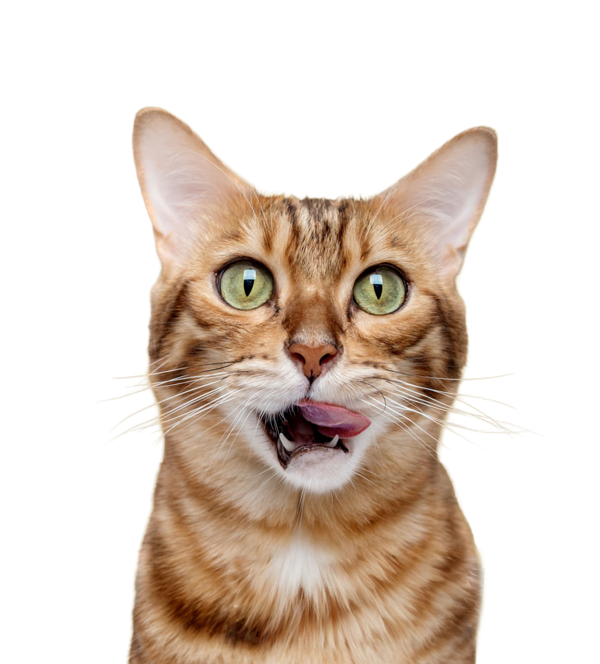
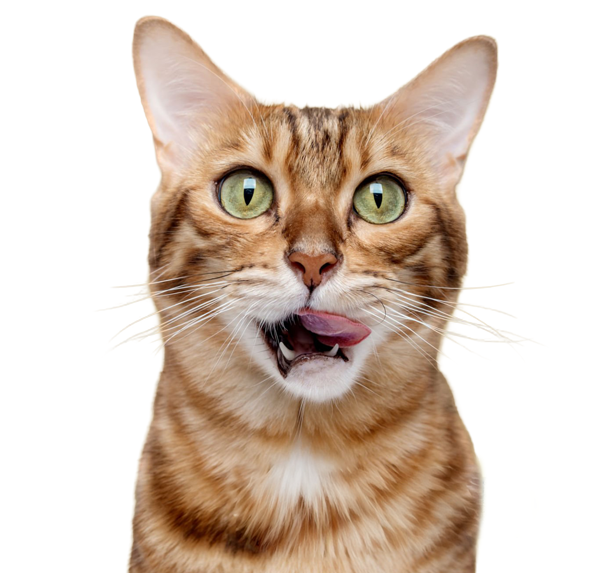
ajustement conditions

diff --git a/src/pages/Inscription.jsx b/src/pages/Inscription.jsx
@@ -1,4 +1,4 @@
-import { useState } from 'react'
+import { useState, useRef } from 'react'
 import { supabase } from '../lib/supabase'
 import { useNavigate, Link } from 'react-router-dom'
 
@@ -19,7 +19,7 @@ const CGU_PAGES = [
     sections: [
       {
         titre: 'Utilisation du service',
-        texte: 'ADJUVET est fourni à titre strictement informatif et éducatif. Il ne constitue pas un avis médical vétérinaire et ne remplace en aucun cas le jugement clinique d\'un médecin vétérinaire. VetLab Studio décline toute responsabilité pour les erreurs, omissions, inexactitudes ou défaillances techniques pouvant affecter les informations présentées dans l\'application. L\'utilisateur reconnaît assumer l\'entière responsabilité de toute décision clinique ou thérapeutique prise à partir des données de l\'application, et exonère expressément VetLab Studio de toute responsabilité en cas de préjudice, incluant toute erreur de traitement médical, résultant de son utilisation.',
+        texte: 'ADJUVET est fourni à titre informatif uniquement et ne remplace pas le jugement clinique d\'un vétérinaire. VetLab Studio décline toute responsabilité pour les décisions thérapeutiques prises à partir de l\'application.',
       },
     ],
   },
@@ -56,6 +56,7 @@ export default function Inscription() {
   const [etapeCgu, setEtapeCgu] = useState(null)
   const [voirMdp, setVoirMdp] = useState(false)
   const [voirConfirm, setVoirConfirm] = useState(false)
+  const touchStartX = useRef(null)
   const navigate = useNavigate()
 
   const handleInscription = (e) => {
@@ -68,12 +69,22 @@ export default function Inscription() {
     setEtapeCgu(0)
   }
 
-  const handleValider = async () => {
-    if (etapeCgu < CGU_PAGES.length - 1) {
-      setEtapeCgu(e => e + 1)
-      return
-    }
+  const handleSwipeStart = (e) => {
+    touchStartX.current = e.touches[0].clientX
+  }
 
+  const handleSwipeEnd = (e) => {
+    if (touchStartX.current === null) return
+    const delta = e.changedTouches[0].clientX - touchStartX.current
+    touchStartX.current = null
+    if (delta < -50 && etapeCgu < CGU_PAGES.length - 1) {
+      setEtapeCgu(e => e + 1)
+    } else if (delta > 50 && etapeCgu > 0) {
+      setEtapeCgu(e => e - 1)
+    }
+  }
+
+  const handleAccepter = async () => {
     setChargement(true)
     const { error } = await supabase.auth.signUp({
       email,
@@ -89,6 +100,7 @@ export default function Inscription() {
     }
     setChargement(false)
   }
+
 
   if (succes) {
     return (
@@ -109,8 +121,14 @@ export default function Inscription() {
 
   if (etapeCgu !== null) {
     const { fond, animal, sections } = CGU_PAGES[etapeCgu]
+    const estDernier = etapeCgu === CGU_PAGES.length - 1
     return (
-      <div className="cgu-page" style={{ backgroundImage: `url('${fond}')` }}>
+      <div
+        className="cgu-page"
+        style={{ backgroundImage: `url('${fond}')` }}
+        onTouchStart={handleSwipeStart}
+        onTouchEnd={handleSwipeEnd}
+      >
         <div className="cgu-contenu">
           <img src="/icone-logo-bleu.svg" alt="" className="cgu-icone" />
           <h1 className="cgu-titre">Conditions d'utilisations</h1>
@@ -122,15 +140,17 @@ export default function Inscription() {
               </div>
             ))}
           </div>
-          <button className="cgu-btn" onClick={handleValider} disabled={chargement}>
-            {chargement ? 'Création...' : etapeCgu < CGU_PAGES.length - 1 ? 'Valider' : "J'accepte et je crée mon compte"}
-          </button>
+          {estDernier && (
+            <button className="cgu-btn" onClick={handleAccepter} disabled={chargement}>
+              {chargement ? 'Création...' : "J'accepte"}
+            </button>
+          )}
           <div className="cgu-dots">
             {CGU_PAGES.map((_, i) => (
               <button
                 key={i}
                 className={`cgu-dot${i === etapeCgu ? ' actif' : ''}`}
-                onClick={() => i < etapeCgu && setEtapeCgu(i)}
+                onClick={() => setEtapeCgu(i)}
               >
                 {i + 1}
               </button>

diff --git a/index.html b/index.html
@@ -1,5 +1,5 @@
 <!doctype html>
-<html lang="en">
+<html lang="fr">
   <head>
     <meta charset="UTF-8" />
     <link rel="icon" type="image/svg+xml" href="/favicon.svg" />
@@ -7,7 +7,7 @@
     <title>vetlab-app</title>
     <link rel="stylesheet" href="https://cdn.jsdelivr.net/npm/@tabler/icons-webfont@latest/tabler-icons.min.css">
     <link rel="manifest" href="/manifest.json" />
-<meta name="theme-color" content="#254D56" />
+<meta name="theme-color" content="#BCAADC" />
 <link rel="apple-touch-icon" href="/icon-192.png" />
   </head>
   <body>

diff --git a/src/index.css b/src/index.css
@@ -7006,7 +7006,7 @@ input[type="number"] {
   position: relative;
   z-index: 2;
   flex: 1;
-  padding: 48px 38px 24px;
+  padding: 38px 38px 24px;
   display: flex;
   flex-direction: column;
 }
